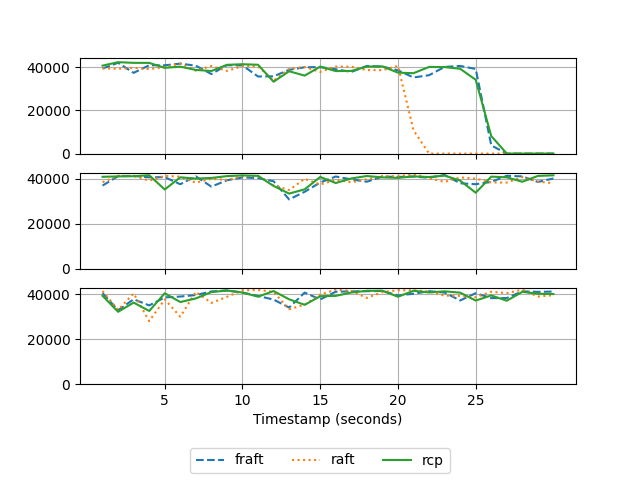
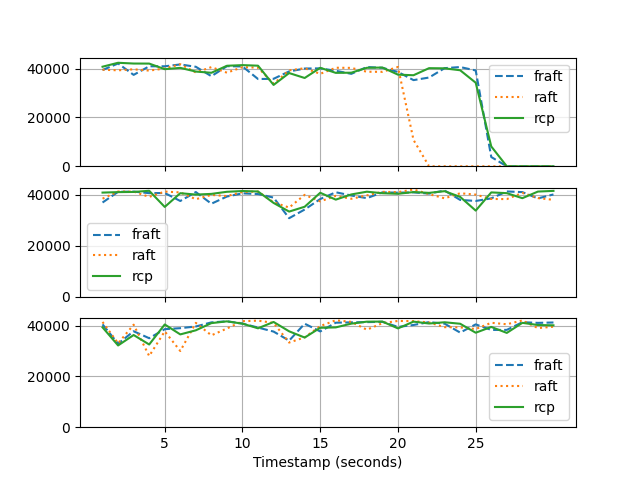
compact plots

diff --git a/experiment/output/process_output.py b/experiment/output/process_output.py
@@ -202,7 +202,7 @@ def plot_failure(data, failure, axes, tick=0, K="all", smoothing=False, color_K=
             continue
 
         y = datum["throughput"]
-        print(int(sum(y)))
+        # print(int(sum(y)))
         
         if smoothing:
             y = smooth(y, window_size=5)
@@ -280,120 +280,129 @@ if __name__ == "__main__":
     EXPERIMENT_TIME_K = 55
     EXPERIMENT_TIME_N = 60
 
-    # ==================================================
-    # Plot batch
-    # ==================================================
+    # # ==================================================
+    # # Plot batch
+    # # ==================================================
 
-    NG_batch_data = read_output_folders([
-        "output/batch_NG/run1",
-        "output/batch_NG/run2",
-        "output/batch_NG/run3",
-        ], EXPERIMENT_TIME_BATCH)
+    # NG_batch_data = read_output_folders([
+    #     "output/batch_NG/run1",
+    #     "output/batch_NG/run2",
+    #     "output/batch_NG/run3",
+    #     ], EXPERIMENT_TIME_BATCH)
     
-    plot_batch(NG_batch_data, output_file="output/plots/batch_ng")
-    # plot_batch(NG_batch_data, output_file="output/plots/batch_ng_log", log=True)
+    # plot_batch(NG_batch_data, output_file="output/plots/batch_ng")
+    # # plot_batch(NG_batch_data, output_file="output/plots/batch_ng_log", log=True)
 
-    G1_batch_data = read_output_folders([
-        "output/batch_G1/run1",
-        "output/batch_G1/run2",
-        "output/batch_G1/run3",
-        ], EXPERIMENT_TIME_BATCH)
+    # G1_batch_data = read_output_folders([
+    #     "output/batch_G1/run1",
+    #     "output/batch_G1/run2",
+    #     "output/batch_G1/run3",
+    #     ], EXPERIMENT_TIME_BATCH)
     
-    plot_batch(G1_batch_data, output_file="output/plots/batch_g1")
-    # plot_batch(G1_batch_data, output_file="output/plots/batch_g1_log", log=True)
+    # plot_batch(G1_batch_data, output_file="output/plots/batch_g1")
+    # # plot_batch(G1_batch_data, output_file="output/plots/batch_g1_log", log=True)
 
-    G2_batch_data = read_output_folders([
-        "output/batch_G2/run1",
-        "output/batch_G2/run2",
-        "output/batch_G2/run3",
-        ], EXPERIMENT_TIME_BATCH)
+    # G2_batch_data = read_output_folders([
+    #     "output/batch_G2/run1",
+    #     "output/batch_G2/run2",
+    #     "output/batch_G2/run3",
+    #     ], EXPERIMENT_TIME_BATCH)
     
-    plot_batch(G2_batch_data, output_file="output/plots/batch_g2")
-    # plot_batch(G2_batch_data, output_file="output/plots/batch_g2_log", log=True)
+    # plot_batch(G2_batch_data, output_file="output/plots/batch_g2")
+    # # plot_batch(G2_batch_data, output_file="output/plots/batch_g2_log", log=True)
 
-    # ==================================================
-    # Plot NG Failures
-    # ==================================================
+    # # ==================================================
+    # # Plot NG Failures
+    # # ==================================================
 
-    fig, (ax1, ax2) = plt.subplots(2, 1, sharex=True)
+    # fig, (ax1, ax2) = plt.subplots(2, 1, sharex=True)
 
-    NG_failure_data = read_output_folders([
-        "output/failure_NG/run1",
-        "output/failure_NG/run2",
-        "output/failure_NG/run3",
-        ], EXPERIMENT_TIME_NG)
+    # NG_failure_data = read_output_folders([
+    #     "output/failure_NG/run1",
+    #     "output/failure_NG/run2",
+    #     "output/failure_NG/run3",
+    #     ], EXPERIMENT_TIME_NG)
 
-    plot_failure(NG_failure_data, "None", ax1, smoothing=SMOOTH_DATA)
-    plot_failure(NG_failure_data, "LF", ax2, smoothing=SMOOTH_DATA)
+    # plot_failure(NG_failure_data, "None", ax1, smoothing=SMOOTH_DATA)
+    # plot_failure(NG_failure_data, "LF", ax2, smoothing=SMOOTH_DATA)
 
-    ax2.set_xlabel("Timestamp (seconds)")
-    handles, labels = ax1.get_legend_handles_labels()
+    # ax2.set_xlabel("Timestamp (seconds)")
+    # handles, labels = ax1.get_legend_handles_labels()
 
-    fig.legend(handles, labels, loc="lower center", ncol=3)
-    plt.subplots_adjust(bottom=0.2)
-    plt.savefig("output/plots/failure_ng")
-    plt.show()
+    # ax1.legend()
+    # ax2.legend()
+    # # fig.legend(handles, labels, loc="lower center", ncol=3)
+    # # plt.subplots_adjust(bottom=0.2)
+    # plt.savefig("output/plots/failure_ng")
+    # plt.show()
 
 
-    fig, (ax1, ax2, ax3) = plt.subplots(3, 1, sharex=True)
+    # fig, (ax1, ax2, ax3) = plt.subplots(3, 1, sharex=True)
     
-    plot_failure(NG_failure_data, "RF", ax1, smoothing=SMOOTH_DATA)
-    plot_failure(NG_failure_data, "ROF", ax2, smoothing=SMOOTH_DATA)
-    plot_failure(NG_failure_data, "LOF", ax3, smoothing=SMOOTH_DATA)
+    # plot_failure(NG_failure_data, "RF", ax1, smoothing=SMOOTH_DATA)
+    # plot_failure(NG_failure_data, "ROF", ax2, smoothing=SMOOTH_DATA)
+    # plot_failure(NG_failure_data, "LOF", ax3, smoothing=SMOOTH_DATA)
 
-    ax3.set_xlabel("Timestamp (seconds)")
-    handles, labels = ax1.get_legend_handles_labels()
+    # ax3.set_xlabel("Timestamp (seconds)")
+    # handles, labels = ax1.get_legend_handles_labels()
 
-    fig.legend(handles, labels, loc="lower center", ncol=3)
-    plt.subplots_adjust(bottom=0.2)
-    plt.savefig("output/plots/failure_ng_others")
-    plt.show()
+    # ax1.legend()
+    # ax2.legend()
+    # ax3.legend()
+    # # fig.legend(handles, labels, loc="lower center", ncol=3)
+    # # plt.subplots_adjust(bottom=0.2)
+    # plt.savefig("output/plots/failure_ng_others")
+    # plt.show()
 
-    # ==================================================
-    # Plot G1 Failures
-    # ==================================================
+    # # ==================================================
+    # # Plot G1 Failures
+    # # ==================================================
 
-    fig, (ax1, ax2) = plt.subplots(2, 1, sharex=True)
+    # fig, (ax1, ax2) = plt.subplots(2, 1, sharex=True)
 
-    G1_failure_data = read_output_folders([
-        "output/failure_G1/run1",
-        "output/failure_G1/run2",
-        "output/failure_G1/run3",
-        ], EXPERIMENT_TIME_G1)
+    # G1_failure_data = read_output_folders([
+    #     "output/failure_G1/run1",
+    #     "output/failure_G1/run2",
+    #     "output/failure_G1/run3",
+    #     ], EXPERIMENT_TIME_G1)
 
-    plot_failure(G1_failure_data, "None", ax1, smoothing=SMOOTH_DATA)
-    plot_failure(G1_failure_data, "LF", ax2, smoothing=SMOOTH_DATA)
+    # plot_failure(G1_failure_data, "None", ax1, smoothing=SMOOTH_DATA)
+    # plot_failure(G1_failure_data, "LF", ax2, smoothing=SMOOTH_DATA)
 
-    ax2.set_xlabel("Timestamp (seconds)")
-    handles, labels = ax1.get_legend_handles_labels()
+    # ax2.set_xlabel("Timestamp (seconds)")
+    # handles, labels = ax1.get_legend_handles_labels()
 
-    fig.legend(handles, labels, loc="lower center", ncol=3)
-    plt.subplots_adjust(bottom=0.2)
-    plt.savefig("output/plots/failure_g1")
-    plt.show()
+    # ax1.legend()
+    # ax2.legend()
+    # # fig.legend(handles, labels, loc="lower center", ncol=3)
+    # # plt.subplots_adjust(bottom=0.2)
+    # plt.savefig("output/plots/failure_g1")
+    # plt.show()
 
-    # ==================================================
-    # Plot G2 Failures
-    # ==================================================
+    # # ==================================================
+    # # Plot G2 Failures
+    # # ==================================================
 
-    fig, (ax1, ax2) = plt.subplots(2, 1, sharex=True)
+    # fig, (ax1, ax2) = plt.subplots(2, 1, sharex=True)
 
-    G2_failure_data = read_output_folders([
-        "output/failure_G2/run1",
-        "output/failure_G2/run2",
-        "output/failure_G2/run3",
-        ], EXPERIMENT_TIME_G2)
+    # G2_failure_data = read_output_folders([
+    #     "output/failure_G2/run1",
+    #     "output/failure_G2/run2",
+    #     "output/failure_G2/run3",
+    #     ], EXPERIMENT_TIME_G2)
 
-    plot_failure(G2_failure_data, "None", ax1, smoothing=SMOOTH_DATA)
-    plot_failure(G2_failure_data, "LF", ax2, smoothing=SMOOTH_DATA)
+    # plot_failure(G2_failure_data, "None", ax1, smoothing=SMOOTH_DATA)
+    # plot_failure(G2_failure_data, "LF", ax2, smoothing=SMOOTH_DATA)
 
-    ax2.set_xlabel("Timestamp (seconds)")
-    handles, labels = ax1.get_legend_handles_labels()
+    # ax2.set_xlabel("Timestamp (seconds)")
+    # handles, labels = ax1.get_legend_handles_labels()
 
-    fig.legend(handles, labels, loc="lower center", ncol=3)
-    plt.subplots_adjust(bottom=0.2)
-    plt.savefig("output/plots/failure_g2")
-    plt.show()
+    # ax1.legend()
+    # ax2.legend()
+    # # fig.legend(handles, labels, loc="lower center", ncol=3)
+    # # plt.subplots_adjust(bottom=0.2)
+    # plt.savefig("output/plots/failure_g2")
+    # plt.show()
 
     # # ==================================================
     # # Plot NG N
@@ -411,7 +420,7 @@ if __name__ == "__main__":
     # Plot NG K
     # ==================================================
 
-    fig, (ax1, ax2) = plt.subplots(2, 1, sharex=True)
+    fig, (ax1, ax2) = plt.subplots(2, 1, sharex=True, figsize=(7, 5))
 
     K_data = read_output_folders([
         "output/K/run1",
@@ -424,9 +433,11 @@ if __name__ == "__main__":
 
     ax2.set_xlabel("Timestamp (seconds)")
     handles, labels = ax1.get_legend_handles_labels()
+    handles[1:-1] = [handles[5], handles[1], handles[6], handles[2], handles[7], handles[3], handles[8], handles[4]]
+    labels[1:-1] = [labels[5], labels[1], labels[6], labels[2], labels[7], labels[3], labels[8], labels[4]]
 
     fig.legend(handles, labels, loc="lower center", ncol=5)
-    plt.subplots_adjust(bottom=0.3)
+    plt.subplots_adjust(bottom=0.28)
     plt.savefig("output/plots/k_others")
     plt.show()
 
